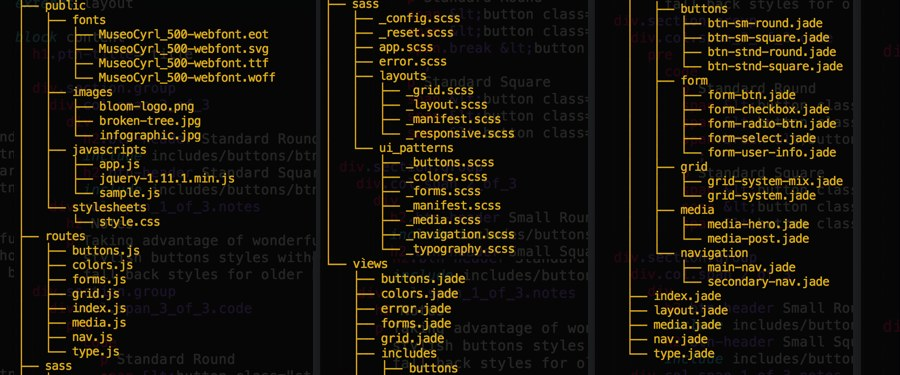
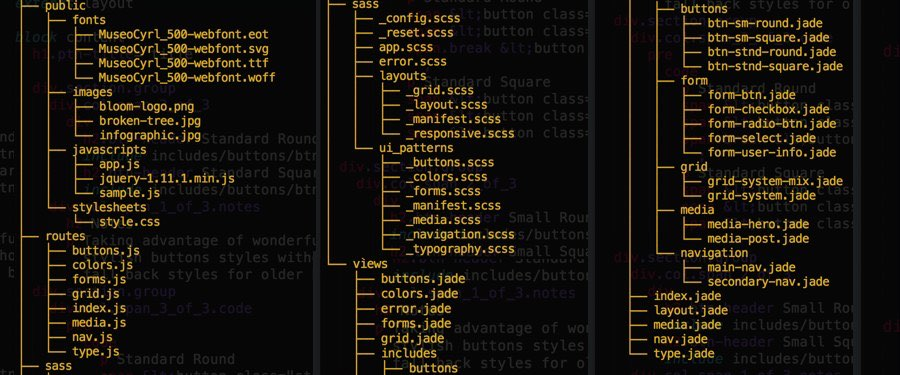
Update the images in the site and swapped for lower file size.

diff --git a/tutorius.html b/tutorius.html
@@ -74,7 +74,7 @@
         <section class="section group">
           <section class="col span_1_of_2">
             <section class="shell">
-              <img class="full-image" src="img/style-tile.png" alt="">
+              <img class="full-image" src="img/style-tile.jpg" alt="">
               <h2>Style - Crafting a Guide</h2>
               <p>
                 Something as simple as this style guide allows the overall design to still be up in the air, yet key elements can be answered.
@@ -83,7 +83,7 @@
           </section>
           <section class="col span_1_of_2">
             <section class="shell">
-              <img class="full-image" src="img/user-flow.png" alt="">
+              <img class="full-image" src="img/user-flow.jpg" alt="">
               <h2>User Workflows</h2>
               <p>
                 Understanding the journey that the user will take is crucial when planning out an app. The journey effects what needs to be made.
@@ -94,7 +94,7 @@
         <section class="section group">
           <section class="col span_1_of_2">
             <section class="shell">
-              <img class="full-image" src="img/js-moqup.png" alt="">
+              <img class="full-image" src="img/js-moqup.jpg" alt="">
               <h2>Wire Frames before Code</h2>
               <p>
                 After the user flows are established we start to create modular wireframes to figure out the best way to layout the app.
@@ -103,7 +103,7 @@
           </section>
           <section class="col span_1_of_2">
             <section class="shell">
-              <img class="full-image" src="img/js-binary.png" alt="">
+              <img class="full-image" src="img/js-binary.jpg" alt="">
               <h2>The Final Look</h2>
               <p>
                 Keeping to the color palette and the fonts choosen from the style guide, and providing ample room for D3, we have a final screen.

diff --git a/css/app.css b/css/app.css
@@ -165,7 +165,7 @@ footer {
     padding-top: 1rem; }
 
 .splash_bkg {
-  background: url(../img/triangles.png) no-repeat;
+  background: url(../img/triangles.jpg) no-repeat;
   background-size: cover;
   height: auto;
   background-attachment: fixed;
@@ -221,11 +221,11 @@ footer {
 .nav_logo {
   text-align: left;
   font-size: 2rem;
+  letter-spacing: -2px;
   color: #F5930B;
   font-family: "Unica One";
   margin: -2rem 0 0 .25rem;
-  text-transform: uppercase;
-  letter-spacing: -1px; }
+  text-transform: uppercase; }
 
 .social_nav {
   text-align: center;
@@ -410,7 +410,8 @@ button a {
     line-height: 1.5rem; }
 
   .nav_logo {
-    font-size: 1.7rem; }
+    font-size: 1.7rem;
+    letter-spacing: -2px; }
 
   .recent_work {
     margin: 0 auto;
@@ -454,7 +455,7 @@ button a {
     margin-left: 0; } }
 @media only screen and (max-width: 480px) {
   .splash_title h1 {
-    font: 5rem/2.5rem "Unica One", sans-serif;
+    font: 4rem/3rem "Unica One", sans-serif;
     padding: 7rem 1.5rem 0 1.5rem; }
   .splash_title h2 {
     font: 1.1rem/1.4rem "Vollkorn", sans-serif;
@@ -462,8 +463,8 @@ button a {
     max-width: 80%; }
 
   .splash_bkg {
-    background: url(../img/triangles-long.png);
-    background-position: left; }
+    background: url(../img/triangles-long.jpg) repeat-y;
+    background-position: cover; }
 
   .display_none {
     display: inline;
@@ -520,8 +521,13 @@ button a {
       text-decoration: underline; }
 
   .nav_logo {
-    font-size: 1.1rem;
-    margin-top: -1.4rem; }
+    font-size: 1.2rem;
+    letter-spacing: -2px;
+    margin: -1.4rem 0 0 0; }
+
+  .navbar_inline li {
+    margin-left: .1rem;
+    padding: .1rem 0; }
 
   .large {
     font-size: 1.4rem; }

diff --git a/presentation.html b/presentation.html
@@ -47,13 +47,13 @@
         </h1>
         <p>
           Developing an idea and being able to create a presentation that showcases ones idea is essential. This visual helps you explain while connecting to the audience, allowing a better understanding. This presentation was looping at the presentation booth. </p>
-        <a href="#">
+        <a href="http://youtu.be/iux8Rp1yIfI">
           <button>Check Out the Presentation</button>
         </a>
         <section class="section group">
           <section class="col span_1_of_1">
             <section class="shell">
-              <img class="full-image" src="img/media-mix.jpg" alt="">
+              <img class="full-image" src="img/media-mix-small.jpg" alt="">
               <h2>Keynote is King</h2>
               <p>
                 Keynote helps me create not only great presentations, but allows me to model how the app in this case could function. In this presentation for Media Mix I showcase my concept and a working model of my idea.

diff --git a/index.html b/index.html
@@ -72,7 +72,7 @@
             <section class="col span_1_of_2">
               <section class="shell">
                 <a href="portfolio.html">
-                  <img src="img/line-up.png" alt="Porfolio design seen in the apple product line up.">
+                  <img src="img/line-up.jpg" alt="Porfolio design seen in the apple product line up.">
                 </a>
                 <h2>Responsive Design - Portfolio</h2>
                 <p class="small_text">
@@ -108,7 +108,7 @@
             <section class="col span_1_of_3">
               <section class="shell">
                 <a href="library.html">
-                  <img src="img/js-prototype.png" alt="A screen shot of the JS app that stored data on favorite books.">
+                  <img src="img/js-prototype-small.jpg" alt="A screen shot of the JS app that stored data on favorite books.">
                 </a>
                 <h2>JavaScript - Prototype</h2>
                 <p class="small_text">

diff --git a/sass/_responsive.scss b/sass/_responsive.scss
@@ -79,6 +79,7 @@
   }
   .nav_logo {
     font-size: 1.7rem;
+    letter-spacing: -2px;
   }
   .recent_work {
     margin: 0 auto;
@@ -132,7 +133,7 @@
 @media only screen and (max-width: 480px) {
   .splash_title {
     h1 {
-      font: 5rem/2.5rem $font-titles, sans-serif;
+      font: 4rem/3rem $font-titles, sans-serif;
       padding: 7rem 1.5rem 0 1.5rem;
     }
     h2 {
@@ -142,8 +143,8 @@
     }
   }
   .splash_bkg {
-    background: url(../img/triangles-long.png);
-    background-position: left;
+    background: url(../img/triangles-long.jpg) repeat-y;
+    background-position: cover;
   }
   .display_none {
     display: inline;
@@ -213,8 +214,13 @@
     }
   }
   .nav_logo {
-    font-size: 1.1rem;
-    margin-top: -1.4rem;
+    font-size: 1.2rem;
+    letter-spacing: -2px;
+    margin: -1.4rem 0 0 0;
+  }
+  .navbar_inline li {
+  margin-left: .1rem;
+  padding: .1rem 0;
   }
   .large {
     font-size: 1.4rem;

diff --git a/sass/components/_navbar.scss b/sass/components/_navbar.scss
@@ -31,11 +31,11 @@
 .nav_logo {
   text-align: left;
   font-size: 2rem;
+  letter-spacing: -2px;
   color: $third-color;
   font-family: $font-titles;
   margin: -2rem 0 0 .25rem;
   text-transform: uppercase;
-  letter-spacing: -1px;
 }
 .social_nav {
   text-align: center;

diff --git a/sass/components/_front-page.scss b/sass/components/_front-page.scss
@@ -1,5 +1,5 @@
 .splash_bkg {
-  background: url(../img/triangles.png) no-repeat;
+  background: url(../img/triangles.jpg) no-repeat;
   background-size: cover;
   height: auto;
   background-attachment: fixed;
